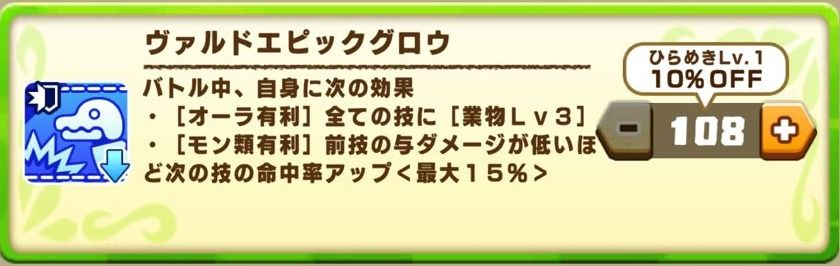
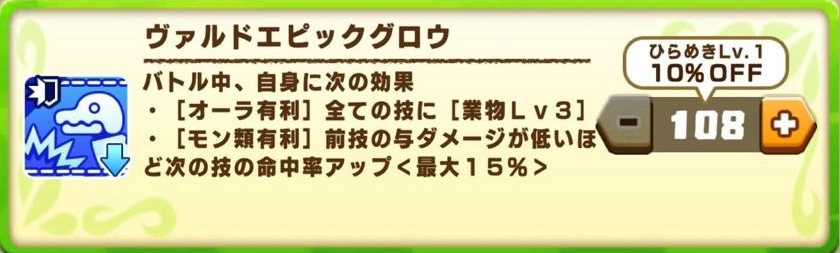
育成ストーリー解説の画像の見せ方を調整
- 画像の折りたたみを、PCではEXトレ等を4列・ヴァルド能力カードを3列に並べる
- ヴァルド能力カードの画像17枚を黄緑の枠に沿って切り抜き
- EXトレ表のキャラ列に顔画像を追加（画面上部の顔アイコンから切り抜き、名前は画像の下）
- 出てくるノラモン表の距離列を中央揃えに

diff --git a/ikusei/story-torble.html b/ikusei/story-torble.html
@@ -49,6 +49,7 @@
     details.shots { margin:12px 0; border:1px solid #eee; border-radius:8px; padding:8px 12px; background:#fcfcfc; }
     details.shots summary { cursor:pointer; font-size:13px; font-weight:bold; color:#f0a500; }
     .shot-grid { display:grid; grid-template-columns:repeat(2, minmax(0, 1fr)); gap:10px; margin-top:10px; }
+    @media (min-width:768px) { .shot-grid { grid-template-columns:repeat(4, minmax(0, 1fr)); } }
     .shot-grid figure { margin:0; }
     .shot-grid img { width:100%; height:auto; border-radius:6px; border:1px solid #eee; display:block; }
     .shot-grid figcaption { font-size:12px; color:#666; text-align:center; margin-top:4px; }
@@ -76,7 +77,9 @@
     .cnt-once { background:#1a1a2e; color:#fff; }
     .ex-type-table td:first-child { font-weight:bold; }
     .ex-table td { background:#fff !important; }
-    .ex-table td.ex-chara { width:5.5em; border-right:1px solid #eee; font-weight:bold; white-space:nowrap; }
+    .ex-table td.ex-chara { width:76px; border-right:1px solid #eee; font-weight:bold; white-space:nowrap; text-align:center; vertical-align:top; }
+    .ex-table .chara-face { display:block; width:60px; height:60px; margin:0 auto 4px; border-radius:8px; border:1px solid #ddd; }
+    .ex-table .chara-name { display:block; font-size:12px; }
     .ex-table td.ex-body { font-weight:normal; white-space:normal; }
     .ex-table .ex-name { font-weight:bold; margin-right:4px; }
     .ex-table .ex-eff { display:block; font-size:12px; color:#555; margin-top:2px; }
@@ -91,12 +94,12 @@
     .t-mix  { color:#0b7285; }
     .t-rare { color:#b35900; }
     .nora-table td, .nora-table th { text-align:center; padding:8px 4px; }
-    .nora-table td:first-child { text-align:left; }
     .vald-table td:first-child { min-width:7em; }
     .shot-list { display:grid; gap:10px; margin-top:10px; }
     .shot-list figure { margin:0; }
     .shot-list img { width:100%; max-width:600px; height:auto; border-radius:6px; border:1px solid #eee; display:block; margin:0 auto; }
     .shot-list figcaption { font-size:12px; color:#666; text-align:center; margin-top:4px; }
+    @media (min-width:768px) { .shot-list { grid-template-columns:repeat(3, minmax(0, 1fr)); } }
     .hiden-img { display:block; max-width:220px; width:100%; height:auto; margin:10px 0; }
     .hiden-table td, .hiden-table th { text-align:center; vertical-align:middle; }
     .hiden-table td.na { color:#aaa; font-size:12px; }
@@ -276,18 +279,18 @@
       <div class="table-wrap c-before">
         <table class="data-table ab-table ex-table">
           <tr><th>キャラ</th><th>EXトレと効果</th></tr>
-          <tr><td class="ex-chara" rowspan="1">ブラス</td><td class="ex-body"><span class="ex-name">ライフ／ちから／かしこさ／命中／回避／丈夫さ特訓！</span> <span class="cnt cnt-once">1回（各）</span><span class="ex-eff">ようす「〇〇ボーナス」を獲得</span></td></tr>
-          <tr><td class="ex-chara" rowspan="4">タバサ</td><td class="ex-body"><span class="ex-name">大切にしたい</span> <span class="cnt cnt-once">1回</span><span class="ex-eff">体力回復＋体力上限アップ</span></td></tr>
+          <tr><td class="ex-chara" rowspan="1"><img src="../ikusei-img/story-torble/chara-bras.jpg" alt="ブラス" width="134" height="134" loading="lazy" class="chara-face"><span class="chara-name">ブラス</span></td><td class="ex-body"><span class="ex-name">ライフ／ちから／かしこさ／命中／回避／丈夫さ特訓！</span> <span class="cnt cnt-once">1回（各）</span><span class="ex-eff">ようす「〇〇ボーナス」を獲得</span></td></tr>
+          <tr><td class="ex-chara" rowspan="4"><img src="../ikusei-img/story-torble/chara-tabasa.jpg" alt="タバサ" width="134" height="134" loading="lazy" class="chara-face"><span class="chara-name">タバサ</span></td><td class="ex-body"><span class="ex-name">大切にしたい</span> <span class="cnt cnt-once">1回</span><span class="ex-eff">体力回復＋体力上限アップ</span></td></tr>
           <tr><td class="ex-body"><span class="ex-name">輝かせたい</span><span class="ex-eff">人気アップ</span></td></tr>
           <tr><td class="ex-body"><span class="ex-name">あまやかしたい</span><span class="ex-eff">忠誠度アップ＋あまえ度アップ</span></td></tr>
           <tr><td class="ex-body"><span class="ex-name">たまには厳しく</span><span class="ex-eff">忠誠度アップ＋おそれ度アップ</span></td></tr>
-          <tr><td class="ex-chara" rowspan="4">ポルツ</td><td class="ex-body"><span class="ex-name">技習得のサポートグッズ</span><span class="ex-eff">技習得率アップのようす</span></td></tr>
+          <tr><td class="ex-chara" rowspan="4"><img src="../ikusei-img/story-torble/chara-porutsu.jpg" alt="ポルツ" width="134" height="134" loading="lazy" class="chara-face"><span class="chara-name">ポルツ</span></td><td class="ex-body"><span class="ex-name">技習得のサポートグッズ</span><span class="ex-eff">技習得率アップのようす</span></td></tr>
           <tr><td class="ex-body"><span class="ex-name">危機対策グッズ</span><span class="ex-eff">ノラモンに勝ちやすくなるようす</span></td></tr>
           <tr><td class="ex-body"><span class="ex-name">ノラモンの出現情報</span> <span class="cnt cnt-once">1回</span><span class="ex-eff">現在のフェーズに「ノラモン注意報」</span></td></tr>
           <tr><td class="ex-body"><span class="ex-name">修行のチケット</span> <span class="cnt cnt-once">1回</span><span class="ex-eff">修行チケット1枚、または技習得率が少しアップするようす</span></td></tr>
-          <tr><td class="ex-chara" rowspan="1">ピーシィ</td><td class="ex-body"><span class="ex-name">砂漠／森林／海岸／雪山／火山で特訓！</span><span class="ex-eff">その地形の適性アップ、または体力少し回復</span></td></tr>
-          <tr><td class="ex-chara" rowspan="1">エイル</td><td class="ex-body"><span class="ex-name">零／近／中／遠距離を鍛えたい</span><span class="ex-eff">その距離の適性アップ、または体力少し回復</span></td></tr>
-          <tr><td class="ex-chara" rowspan="1">モンティット</td><td class="ex-body"><span class="ex-name">ライフ／ちから／かしこさ／命中／回避／丈夫さの素質！</span><span class="ex-eff">その能力の素質アップ、または体力少し回復</span></td></tr>
+          <tr><td class="ex-chara" rowspan="1"><img src="../ikusei-img/story-torble/chara-pishii.jpg" alt="ピーシィ" width="134" height="134" loading="lazy" class="chara-face"><span class="chara-name">ピーシィ</span></td><td class="ex-body"><span class="ex-name">砂漠／森林／海岸／雪山／火山で特訓！</span><span class="ex-eff">その地形の適性アップ、または体力少し回復</span></td></tr>
+          <tr><td class="ex-chara" rowspan="1"><img src="../ikusei-img/story-torble/chara-eiru.jpg" alt="エイル" width="134" height="134" loading="lazy" class="chara-face"><span class="chara-name">エイル</span></td><td class="ex-body"><span class="ex-name">零／近／中／遠距離を鍛えたい</span><span class="ex-eff">その距離の適性アップ、または体力少し回復</span></td></tr>
+          <tr><td class="ex-chara" rowspan="1"><img src="../ikusei-img/story-torble/chara-montitto.jpg" alt="モンティット" width="134" height="134" loading="lazy" class="chara-face"><span class="chara-name">モンティット</span></td><td class="ex-body"><span class="ex-name">ライフ／ちから／かしこさ／命中／回避／丈夫さの素質！</span><span class="ex-eff">その能力の素質アップ、または体力少し回復</span></td></tr>
         </table>
       </div>
       <details class="shots">
@@ -314,21 +317,21 @@
       <div class="table-wrap c-mongura">
         <table class="data-table ab-table ex-table">
           <tr><th>キャラ</th><th>EXトレと効果</th></tr>
-          <tr><td class="ex-chara" rowspan="4">ハインケル</td><td class="ex-body"><span class="ex-name">大切にしたい</span> <span class="cnt cnt-once">1回</span><span class="ex-eff">体力回復＋体力上限<strong>大</strong>アップ</span></td></tr>
+          <tr><td class="ex-chara" rowspan="4"><img src="../ikusei-img/story-torble/chara-heinkel.jpg" alt="ハインケル" width="134" height="134" loading="lazy" class="chara-face"><span class="chara-name">ハインケル</span></td><td class="ex-body"><span class="ex-name">大切にしたい</span> <span class="cnt cnt-once">1回</span><span class="ex-eff">体力回復＋体力上限<strong>大</strong>アップ</span></td></tr>
           <tr><td class="ex-body"><span class="ex-name">仲良しになってほしい</span> <span class="cnt cnt-once">1回</span><span class="ex-eff">人気アップ</span></td></tr>
           <tr><td class="ex-body"><span class="ex-name">あまやかしたい</span><span class="ex-eff">忠誠度アップ＋あまえ度アップ</span></td></tr>
           <tr><td class="ex-body"><span class="ex-name">たまには厳しく</span><span class="ex-eff">忠誠度アップ＋おそれ度アップ</span></td></tr>
-          <tr><td class="ex-chara" rowspan="4">ジュリア</td><td class="ex-body"><span class="ex-name">技習得の知識</span><span class="ex-eff">技習得率アップのようす</span></td></tr>
+          <tr><td class="ex-chara" rowspan="4"><img src="../ikusei-img/story-torble/chara-julia.jpg" alt="ジュリア" width="134" height="134" loading="lazy" class="chara-face"><span class="chara-name">ジュリア</span></td><td class="ex-body"><span class="ex-name">技習得の知識</span><span class="ex-eff">技習得率アップのようす</span></td></tr>
           <tr><td class="ex-body"><span class="ex-name">危機対策の知識</span><span class="ex-eff">ノラモンに勝ちやすくなるようす</span></td></tr>
           <tr><td class="ex-body"><span class="ex-name">ノラモンの出現情報</span> <span class="cnt cnt-once">1回</span><span class="ex-eff">「ノラモン注意報」が発生</span></td></tr>
           <tr><td class="ex-body"><span class="ex-name">修行のチケット</span> <span class="cnt cnt-once">1回</span><span class="ex-eff">修行チケット1枚、または技習得率が少しアップするようす</span></td></tr>
-          <tr><td class="ex-chara" rowspan="1">マルタ</td><td class="ex-body"><span class="ex-name">ライフ／ちから／かしこさ／命中／回避／丈夫さの素質！</span><span class="ex-eff">その能力の素質アップ、または体力少し回復</span></td></tr>
-          <tr><td class="ex-chara" rowspan="1">ステラ</td><td class="ex-body"><span class="ex-name">総合力の知識</span> <span class="cnt cnt-once">1回</span><span class="ex-eff"><strong>ブレインガルド</strong>をひらめき＋能力Pt</span></td></tr>
-          <tr><td class="ex-chara" rowspan="1">ニコラオ</td><td class="ex-body"><span class="ex-name">総合力の知識</span> <span class="cnt cnt-once">1回</span><span class="ex-eff"><strong>タフネスガルド</strong>をひらめき＋能力Pt</span></td></tr>
-          <tr><td class="ex-chara" rowspan="3">リュナ</td><td class="ex-body"><span class="ex-name">ひらめきの知識</span><span class="ex-eff">能力のひらめきLvアップ＋能力Pt</span></td></tr>
+          <tr><td class="ex-chara" rowspan="1"><img src="../ikusei-img/story-torble/chara-maruta.jpg" alt="マルタ" width="134" height="134" loading="lazy" class="chara-face"><span class="chara-name">マルタ</span></td><td class="ex-body"><span class="ex-name">ライフ／ちから／かしこさ／命中／回避／丈夫さの素質！</span><span class="ex-eff">その能力の素質アップ、または体力少し回復</span></td></tr>
+          <tr><td class="ex-chara" rowspan="1"><img src="../ikusei-img/story-torble/chara-stella.jpg" alt="ステラ" width="134" height="134" loading="lazy" class="chara-face"><span class="chara-name">ステラ</span></td><td class="ex-body"><span class="ex-name">総合力の知識</span> <span class="cnt cnt-once">1回</span><span class="ex-eff"><strong>ブレインガルド</strong>をひらめき＋能力Pt</span></td></tr>
+          <tr><td class="ex-chara" rowspan="1"><img src="../ikusei-img/story-torble/chara-nikorao.jpg" alt="ニコラオ" width="134" height="134" loading="lazy" class="chara-face"><span class="chara-name">ニコラオ</span></td><td class="ex-body"><span class="ex-name">総合力の知識</span> <span class="cnt cnt-once">1回</span><span class="ex-eff"><strong>タフネスガルド</strong>をひらめき＋能力Pt</span></td></tr>
+          <tr><td class="ex-chara" rowspan="3"><img src="../ikusei-img/story-torble/chara-ryuna.jpg" alt="リュナ" width="134" height="134" loading="lazy" class="chara-face"><span class="chara-name">リュナ</span></td><td class="ex-body"><span class="ex-name">ひらめきの知識</span><span class="ex-eff">能力のひらめきLvアップ＋能力Pt</span></td></tr>
           <tr><td class="ex-body"><span class="ex-name">大会の知識</span> <span class="cnt cnt-once">1回</span><span class="ex-eff">大会秘伝が獲得できるようす</span></td></tr>
           <tr><td class="ex-body"><span class="ex-name">能力／チーム戦／モン類の知識</span> <span class="cnt cnt-once">1回（各）</span><span class="ex-eff">★3のステータス秘伝／陣営秘伝／モン類秘伝がつきやすくなるようす</span></td></tr>
-          <tr><td class="ex-chara" rowspan="1">ミズキ</td><td class="ex-body"><span class="ex-name">全員集合！</span> <span class="cnt cnt-once">1回</span><span class="ex-eff">特別なイベントの発生状態をリセット＋全能力と人気の上限アップ</span></td></tr>
+          <tr><td class="ex-chara" rowspan="1"><img src="../ikusei-img/story-torble/chara-mizuki.jpg" alt="ミズキ" width="134" height="134" loading="lazy" class="chara-face"><span class="chara-name">ミズキ</span></td><td class="ex-body"><span class="ex-name">全員集合！</span> <span class="cnt cnt-once">1回</span><span class="ex-eff">特別なイベントの発生状態をリセット＋全能力と人気の上限アップ</span></td></tr>
         </table>
       </div>
       <details class="shots">
@@ -354,18 +357,18 @@
       <div class="table-wrap c-gurasura">
         <table class="data-table ab-table ex-table">
           <tr><th>キャラ</th><th>EXトレと効果</th></tr>
-          <tr><td class="ex-chara" rowspan="4">ジュリア</td><td class="ex-body"><span class="ex-name">技習得の知識</span><span class="ex-eff">技習得率アップのようす</span></td></tr>
+          <tr><td class="ex-chara" rowspan="4"><img src="../ikusei-img/story-torble/chara-julia.jpg" alt="ジュリア" width="134" height="134" loading="lazy" class="chara-face"><span class="chara-name">ジュリア</span></td><td class="ex-body"><span class="ex-name">技習得の知識</span><span class="ex-eff">技習得率アップのようす</span></td></tr>
           <tr><td class="ex-body"><span class="ex-name">危機対策の知識</span><span class="ex-eff">ノラモンに勝ちやすくなるようす</span></td></tr>
           <tr><td class="ex-body"><span class="ex-name">ノラモンの出現情報</span> <span class="cnt cnt-once">1回</span><span class="ex-eff">「ノラモン注意報」が発生</span></td></tr>
           <tr><td class="ex-body"><span class="ex-name">修行のチケット</span> <span class="cnt cnt-once">1回</span><span class="ex-eff">修行チケット1枚、または技習得率が少しアップするようす</span></td></tr>
-          <tr><td class="ex-chara" rowspan="1">カヴァロ</td><td class="ex-body"><span class="ex-name">砂漠／森林／海岸／雪山／火山の地形</span><span class="ex-eff">その地形の適性アップ、または体力少し回復</span></td></tr>
-          <tr><td class="ex-chara" rowspan="1">サフィン</td><td class="ex-body"><span class="ex-name">赤／青／黄／緑／白／黒オーラの対策</span> <span class="cnt cnt-once">1回（各）</span><span class="ex-eff">対応する<strong>色ハント</strong>をひらめき＋能力Pt</span></td></tr>
-          <tr><td class="ex-chara" rowspan="1">シュウラ</td><td class="ex-body"><span class="ex-name">創造／幻霊／魔族／獣族／怪物／無機類への対策</span> <span class="cnt cnt-once">1回（各）</span><span class="ex-eff">対応する<strong>モン類ハント</strong>をひらめき＋能力Pt</span></td></tr>
-          <tr><td class="ex-chara" rowspan="1">ニア</td><td class="ex-body"><span class="ex-name">超モンスターの対策</span> <span class="cnt cnt-once">1回</span><span class="ex-eff"><strong>ハイレイドブースト</strong>をひらめき＋能力Pt</span></td></tr>
-          <tr><td class="ex-chara" rowspan="3">アイリス</td><td class="ex-body"><span class="ex-name">ひらめきの知識</span><span class="ex-eff">能力のひらめきLvアップ＋能力Pt</span></td></tr>
+          <tr><td class="ex-chara" rowspan="1"><img src="../ikusei-img/story-torble/chara-kavaro.jpg" alt="カヴァロ" width="134" height="134" loading="lazy" class="chara-face"><span class="chara-name">カヴァロ</span></td><td class="ex-body"><span class="ex-name">砂漠／森林／海岸／雪山／火山の地形</span><span class="ex-eff">その地形の適性アップ、または体力少し回復</span></td></tr>
+          <tr><td class="ex-chara" rowspan="1"><img src="../ikusei-img/story-torble/chara-safin.jpg" alt="サフィン" width="134" height="134" loading="lazy" class="chara-face"><span class="chara-name">サフィン</span></td><td class="ex-body"><span class="ex-name">赤／青／黄／緑／白／黒オーラの対策</span> <span class="cnt cnt-once">1回（各）</span><span class="ex-eff">対応する<strong>色ハント</strong>をひらめき＋能力Pt</span></td></tr>
+          <tr><td class="ex-chara" rowspan="1"><img src="../ikusei-img/story-torble/chara-shuura.jpg" alt="シュウラ" width="134" height="134" loading="lazy" class="chara-face"><span class="chara-name">シュウラ</span></td><td class="ex-body"><span class="ex-name">創造／幻霊／魔族／獣族／怪物／無機類への対策</span> <span class="cnt cnt-once">1回（各）</span><span class="ex-eff">対応する<strong>モン類ハント</strong>をひらめき＋能力Pt</span></td></tr>
+          <tr><td class="ex-chara" rowspan="1"><img src="../ikusei-img/story-torble/chara-nia.jpg" alt="ニア" width="134" height="134" loading="lazy" class="chara-face"><span class="chara-name">ニア</span></td><td class="ex-body"><span class="ex-name">超モンスターの対策</span> <span class="cnt cnt-once">1回</span><span class="ex-eff"><strong>ハイレイドブースト</strong>をひらめき＋能力Pt</span></td></tr>
+          <tr><td class="ex-chara" rowspan="3"><img src="../ikusei-img/story-torble/chara-iris.jpg" alt="アイリス" width="134" height="134" loading="lazy" class="chara-face"><span class="chara-name">アイリス</span></td><td class="ex-body"><span class="ex-name">ひらめきの知識</span><span class="ex-eff">能力のひらめきLvアップ＋能力Pt</span></td></tr>
           <tr><td class="ex-body"><span class="ex-name">大会の知識</span> <span class="cnt cnt-once">1回</span><span class="ex-eff">大会秘伝が獲得できるようす</span></td></tr>
           <tr><td class="ex-body"><span class="ex-name">技／間合い／チーム戦の知識</span> <span class="cnt cnt-once">1回（各）</span><span class="ex-eff">★3の技秘伝／間合い秘伝／陣営秘伝がつきやすくなるようす</span></td></tr>
-          <tr><td class="ex-chara" rowspan="1">モニカ</td><td class="ex-body"><span class="ex-name">全員集合！</span> <span class="cnt cnt-once">1回</span><span class="ex-eff">特別なイベントの発生状態をリセット＋全能力と人気の上限を<strong>少し</strong>アップ、忠誠度上限もわずかにアップ</span></td></tr>
+          <tr><td class="ex-chara" rowspan="1"><img src="../ikusei-img/story-torble/chara-monika.jpg" alt="モニカ" width="134" height="134" loading="lazy" class="chara-face"><span class="chara-name">モニカ</span></td><td class="ex-body"><span class="ex-name">全員集合！</span> <span class="cnt cnt-once">1回</span><span class="ex-eff">特別なイベントの発生状態をリセット＋全能力と人気の上限を<strong>少し</strong>アップ、忠誠度上限もわずかにアップ</span></td></tr>
         </table>
       </div>
       <details class="shots">
@@ -392,17 +395,17 @@
       <div class="table-wrap c-lord">
         <table class="data-table ab-table ex-table">
           <tr><th>キャラ</th><th>EXトレと効果</th></tr>
-          <tr><td class="ex-chara" rowspan="4">ジュリア</td><td class="ex-body"><span class="ex-name">技習得の知識</span><span class="ex-eff">技習得率アップのようす</span></td></tr>
+          <tr><td class="ex-chara" rowspan="4"><img src="../ikusei-img/story-torble/chara-julia.jpg" alt="ジュリア" width="134" height="134" loading="lazy" class="chara-face"><span class="chara-name">ジュリア</span></td><td class="ex-body"><span class="ex-name">技習得の知識</span><span class="ex-eff">技習得率アップのようす</span></td></tr>
           <tr><td class="ex-body"><span class="ex-name">危機対策の知識</span><span class="ex-eff">ノラモンに勝ちやすくなるようす</span></td></tr>
           <tr><td class="ex-body"><span class="ex-name">ノラモンの出現情報</span> <span class="cnt cnt-once">1回</span><span class="ex-eff">「ノラモン注意報」が発生</span></td></tr>
           <tr><td class="ex-body"><span class="ex-name">修行のチケット</span> <span class="cnt cnt-once">1回</span><span class="ex-eff">修行チケット1枚、または技習得率が少しアップするようす</span></td></tr>
-          <tr><td class="ex-chara" rowspan="1">クリス</td><td class="ex-body"><span class="ex-name">零／近／中／遠距離を鍛えたい</span><span class="ex-eff">その距離の適性アップ、または体力少し回復</span></td></tr>
-          <tr><td class="ex-chara" rowspan="1">コウエン</td><td class="ex-body"><span class="ex-name">砂漠／森林／海岸／雪山／火山の地形への対策</span> <span class="cnt cnt-once">1回（各）</span><span class="ex-eff">対応する<strong>ハート</strong>をひらめき、まれに地形適性アップ</span></td></tr>
-          <tr><td class="ex-chara" rowspan="1">レイラ</td><td class="ex-body"><span class="ex-name">零／近／中／遠距離の対策</span> <span class="cnt cnt-once">1回（各）</span><span class="ex-eff">対応する<strong>スナイプ</strong>をひらめき＋能力Pt</span></td></tr>
-          <tr><td class="ex-chara" rowspan="1">ルーカス</td><td class="ex-body"><span class="ex-name">創造／幻霊／魔族／獣族／怪物／無機類への対策</span> <span class="cnt cnt-once">1回（各）</span><span class="ex-eff">対応する<strong>ウィーク</strong>をひらめき、まれにモン類経験値</span></td></tr>
-          <tr><td class="ex-chara" rowspan="2">クヌギ</td><td class="ex-body"><span class="ex-name">ひらめきの知識</span><span class="ex-eff">能力のひらめきLvアップ＋能力Pt</span></td></tr>
+          <tr><td class="ex-chara" rowspan="1"><img src="../ikusei-img/story-torble/chara-kris.jpg" alt="クリス" width="134" height="134" loading="lazy" class="chara-face"><span class="chara-name">クリス</span></td><td class="ex-body"><span class="ex-name">零／近／中／遠距離を鍛えたい</span><span class="ex-eff">その距離の適性アップ、または体力少し回復</span></td></tr>
+          <tr><td class="ex-chara" rowspan="1"><img src="../ikusei-img/story-torble/chara-kouen.jpg" alt="コウエン" width="134" height="134" loading="lazy" class="chara-face"><span class="chara-name">コウエン</span></td><td class="ex-body"><span class="ex-name">砂漠／森林／海岸／雪山／火山の地形への対策</span> <span class="cnt cnt-once">1回（各）</span><span class="ex-eff">対応する<strong>ハート</strong>をひらめき、まれに地形適性アップ</span></td></tr>
+          <tr><td class="ex-chara" rowspan="1"><img src="../ikusei-img/story-torble/chara-leila.jpg" alt="レイラ" width="134" height="134" loading="lazy" class="chara-face"><span class="chara-name">レイラ</span></td><td class="ex-body"><span class="ex-name">零／近／中／遠距離の対策</span> <span class="cnt cnt-once">1回（各）</span><span class="ex-eff">対応する<strong>スナイプ</strong>をひらめき＋能力Pt</span></td></tr>
+          <tr><td class="ex-chara" rowspan="1"><img src="../ikusei-img/story-torble/chara-lucas.jpg" alt="ルーカス" width="134" height="134" loading="lazy" class="chara-face"><span class="chara-name">ルーカス</span></td><td class="ex-body"><span class="ex-name">創造／幻霊／魔族／獣族／怪物／無機類への対策</span> <span class="cnt cnt-once">1回（各）</span><span class="ex-eff">対応する<strong>ウィーク</strong>をひらめき、まれにモン類経験値</span></td></tr>
+          <tr><td class="ex-chara" rowspan="2"><img src="../ikusei-img/story-torble/chara-kunugi.jpg" alt="クヌギ" width="134" height="134" loading="lazy" class="chara-face"><span class="chara-name">クヌギ</span></td><td class="ex-body"><span class="ex-name">ひらめきの知識</span><span class="ex-eff">能力のひらめきLvアップ＋能力Pt</span></td></tr>
           <tr><td class="ex-body"><span class="ex-name">技／能力／間合い／チーム戦の知識</span> <span class="cnt cnt-once">1回（各）</span><span class="ex-eff">★3の技秘伝／ステータス秘伝／間合い秘伝／陣営秘伝がつきやすくなるようす（大会の知識はなし）</span></td></tr>
-          <tr><td class="ex-chara" rowspan="1">ルミナ</td><td class="ex-body"><span class="ex-name">全員集合！</span> <span class="cnt cnt-once">1回</span><span class="ex-eff">特別なイベントの発生状態をリセット＋全能力と<strong>忠誠度</strong>の上限アップ</span></td></tr>
+          <tr><td class="ex-chara" rowspan="1"><img src="../ikusei-img/story-torble/chara-lumina.jpg" alt="ルミナ" width="134" height="134" loading="lazy" class="chara-face"><span class="chara-name">ルミナ</span></td><td class="ex-body"><span class="ex-name">全員集合！</span> <span class="cnt cnt-once">1回</span><span class="ex-eff">特別なイベントの発生状態をリセット＋全能力と<strong>忠誠度</strong>の上限アップ</span></td></tr>
         </table>
       </div>
       <details class="shots">
@@ -541,9 +544,9 @@
     <details class="shots">
       <summary>レアの能力の画像を見る（3枚）</summary>
       <div class="shot-list">
-        <figure><img src="../ikusei-img/story-torble/vald-long-aim.jpg" alt="ヴァルド能力「ヴァルドロングエイム」" width="900" height="342" loading="lazy"><figcaption>ヴァルドロングエイム</figcaption></figure>
-        <figure><img src="../ikusei-img/story-torble/vald-zero-trine.jpg" alt="ヴァルド能力「ヴァルドゼロトライン」" width="900" height="265" loading="lazy"><figcaption>ヴァルドゼロトライン</figcaption></figure>
-        <figure><img src="../ikusei-img/story-torble/vald-zero-blitz.jpg" alt="ヴァルド能力「ヴァルドゼロブリッツ」" width="900" height="257" loading="lazy"><figcaption>ヴァルドゼロブリッツ</figcaption></figure>
+        <figure><img src="../ikusei-img/story-torble/vald-long-aim.jpg" alt="ヴァルド能力「ヴァルドロングエイム」" width="836" height="221" loading="lazy"><figcaption>ヴァルドロングエイム</figcaption></figure>
+        <figure><img src="../ikusei-img/story-torble/vald-zero-trine.jpg" alt="ヴァルド能力「ヴァルドゼロトライン」" width="804" height="239" loading="lazy"><figcaption>ヴァルドゼロトライン</figcaption></figure>
+        <figure><img src="../ikusei-img/story-torble/vald-zero-blitz.jpg" alt="ヴァルド能力「ヴァルドゼロブリッツ」" width="784" height="234" loading="lazy"><figcaption>ヴァルドゼロブリッツ</figcaption></figure>
       </div>
     </details>
     <h4 class="vald-head"><span class="ntype t-mix">混血</span> の能力</h4>
@@ -558,10 +561,10 @@
     <details class="shots">
       <summary>混血の能力の画像を見る（4枚）</summary>
       <div class="shot-list">
-        <figure><img src="../ikusei-img/story-torble/vald-near-shield.jpg" alt="ヴァルド能力「ヴァルドニアシールド」" width="900" height="284" loading="lazy"><figcaption>ヴァルドニアシールド</figcaption></figure>
-        <figure><img src="../ikusei-img/story-torble/vald-zero-force.jpg" alt="ヴァルド能力「ヴァルドゼロフォース」" width="839" height="332" loading="lazy"><figcaption>ヴァルドゼロフォース</figcaption></figure>
-        <figure><img src="../ikusei-img/story-torble/vald-near-force.jpg" alt="ヴァルド能力「ヴァルドニアフォース」" width="900" height="325" loading="lazy"><figcaption>ヴァルドニアフォース</figcaption></figure>
-        <figure><img src="../ikusei-img/story-torble/vald-near-gale.jpg" alt="ヴァルド能力「ヴァルドニアゲイル」" width="900" height="321" loading="lazy"><figcaption>ヴァルドニアゲイル</figcaption></figure>
+        <figure><img src="../ikusei-img/story-torble/vald-near-shield.jpg" alt="ヴァルド能力「ヴァルドニアシールド」" width="802" height="242" loading="lazy"><figcaption>ヴァルドニアシールド</figcaption></figure>
+        <figure><img src="../ikusei-img/story-torble/vald-zero-force.jpg" alt="ヴァルド能力「ヴァルドゼロフォース」" width="781" height="206" loading="lazy"><figcaption>ヴァルドゼロフォース</figcaption></figure>
+        <figure><img src="../ikusei-img/story-torble/vald-near-force.jpg" alt="ヴァルド能力「ヴァルドニアフォース」" width="800" height="237" loading="lazy"><figcaption>ヴァルドニアフォース</figcaption></figure>
+        <figure><img src="../ikusei-img/story-torble/vald-near-gale.jpg" alt="ヴァルド能力「ヴァルドニアゲイル」" width="802" height="242" loading="lazy"><figcaption>ヴァルドニアゲイル</figcaption></figure>
       </div>
     </details>
     <h4 class="vald-head"><span class="ntype t-pure">純血</span> の能力</h4>
@@ -576,14 +579,14 @@
     <details class="shots">
       <summary>純血の能力の画像を見る（8枚）</summary>
       <div class="shot-list">
-        <figure><img src="../ikusei-img/story-torble/vald-zero-boom.jpg" alt="ヴァルド能力「ヴァルドゼロブーム」" width="900" height="285" loading="lazy"><figcaption>ヴァルドゼロブーム</figcaption></figure>
-        <figure><img src="../ikusei-img/story-torble/vald-long-boom.jpg" alt="ヴァルド能力「ヴァルドロングブーム」" width="900" height="257" loading="lazy"><figcaption>ヴァルドロングブーム</figcaption></figure>
-        <figure><img src="../ikusei-img/story-torble/vald-near-armed.jpg" alt="ヴァルド能力「ヴァルドニアアームド」" width="900" height="265" loading="lazy"><figcaption>ヴァルドニアアームド</figcaption></figure>
-        <figure><img src="../ikusei-img/story-torble/vald-middle-armed.jpg" alt="ヴァルド能力「ヴァルドミドルアームド」" width="900" height="325" loading="lazy"><figcaption>ヴァルドミドルアームド</figcaption></figure>
-        <figure><img src="../ikusei-img/story-torble/vald-long-armed.jpg" alt="ヴァルド能力「ヴァルドロングアームド」" width="900" height="268" loading="lazy"><figcaption>ヴァルドロングアームド</figcaption></figure>
-        <figure><img src="../ikusei-img/story-torble/vald-near-mine.jpg" alt="ヴァルド能力「ヴァルドニアマイン」" width="900" height="265" loading="lazy"><figcaption>ヴァルドニアマイン</figcaption></figure>
-        <figure><img src="../ikusei-img/story-torble/vald-middle-mine.jpg" alt="ヴァルド能力「ヴァルドミドルマイン」" width="900" height="353" loading="lazy"><figcaption>ヴァルドミドルマイン</figcaption></figure>
-        <figure><img src="../ikusei-img/story-torble/vald-long-mine.jpg" alt="ヴァルド能力「ヴァルドロングマイン」" width="900" height="367" loading="lazy"><figcaption>ヴァルドロングマイン</figcaption></figure>
+        <figure><img src="../ikusei-img/story-torble/vald-zero-boom.jpg" alt="ヴァルド能力「ヴァルドゼロブーム」" width="802" height="242" loading="lazy"><figcaption>ヴァルドゼロブーム</figcaption></figure>
+        <figure><img src="../ikusei-img/story-torble/vald-long-boom.jpg" alt="ヴァルド能力「ヴァルドロングブーム」" width="802" height="242" loading="lazy"><figcaption>ヴァルドロングブーム</figcaption></figure>
+        <figure><img src="../ikusei-img/story-torble/vald-near-armed.jpg" alt="ヴァルド能力「ヴァルドニアアームド」" width="801" height="242" loading="lazy"><figcaption>ヴァルドニアアームド</figcaption></figure>
+        <figure><img src="../ikusei-img/story-torble/vald-middle-armed.jpg" alt="ヴァルド能力「ヴァルドミドルアームド」" width="881" height="262" loading="lazy"><figcaption>ヴァルドミドルアームド</figcaption></figure>
+        <figure><img src="../ikusei-img/story-torble/vald-long-armed.jpg" alt="ヴァルド能力「ヴァルドロングアームド」" width="802" height="242" loading="lazy"><figcaption>ヴァルドロングアームド</figcaption></figure>
+        <figure><img src="../ikusei-img/story-torble/vald-near-mine.jpg" alt="ヴァルド能力「ヴァルドニアマイン」" width="801" height="242" loading="lazy"><figcaption>ヴァルドニアマイン</figcaption></figure>
+        <figure><img src="../ikusei-img/story-torble/vald-middle-mine.jpg" alt="ヴァルド能力「ヴァルドミドルマイン」" width="845" height="224" loading="lazy"><figcaption>ヴァルドミドルマイン</figcaption></figure>
+        <figure><img src="../ikusei-img/story-torble/vald-long-mine.jpg" alt="ヴァルド能力「ヴァルドロングマイン」" width="869" height="231" loading="lazy"><figcaption>ヴァルドロングマイン</figcaption></figure>
       </div>
     </details>
     <h4 class="vald-head" id="shiro">シロモッチー の能力</h4>
@@ -599,8 +602,8 @@
     <details class="shots">
       <summary>シロモッチーの能力の画像を見る（2枚）</summary>
       <div class="shot-list">
-        <figure><img src="../ikusei-img/story-torble/vald-shiro-epicgrow.jpg" alt="ヴァルド能力「ヴァルドエピックグロウ」" width="840" height="266" loading="lazy"><figcaption>ヴァルドエピックグロウ</figcaption></figure>
-        <figure><img src="../ikusei-img/story-torble/vald-shiro-armedfort.jpg" alt="ヴァルド能力「ヴァルドアームドフォート」" width="900" height="300" loading="lazy"><figcaption>ヴァルドアームドフォート</figcaption></figure>
+        <figure><img src="../ikusei-img/story-torble/vald-shiro-epicgrow.jpg" alt="ヴァルド能力「ヴァルドエピックグロウ」" width="840" height="253" loading="lazy"><figcaption>ヴァルドエピックグロウ</figcaption></figure>
+        <figure><img src="../ikusei-img/story-torble/vald-shiro-armedfort.jpg" alt="ヴァルド能力「ヴァルドアームドフォート」" width="803" height="269" loading="lazy"><figcaption>ヴァルドアームドフォート</figcaption></figure>
       </div>
     </details>
   </div>
